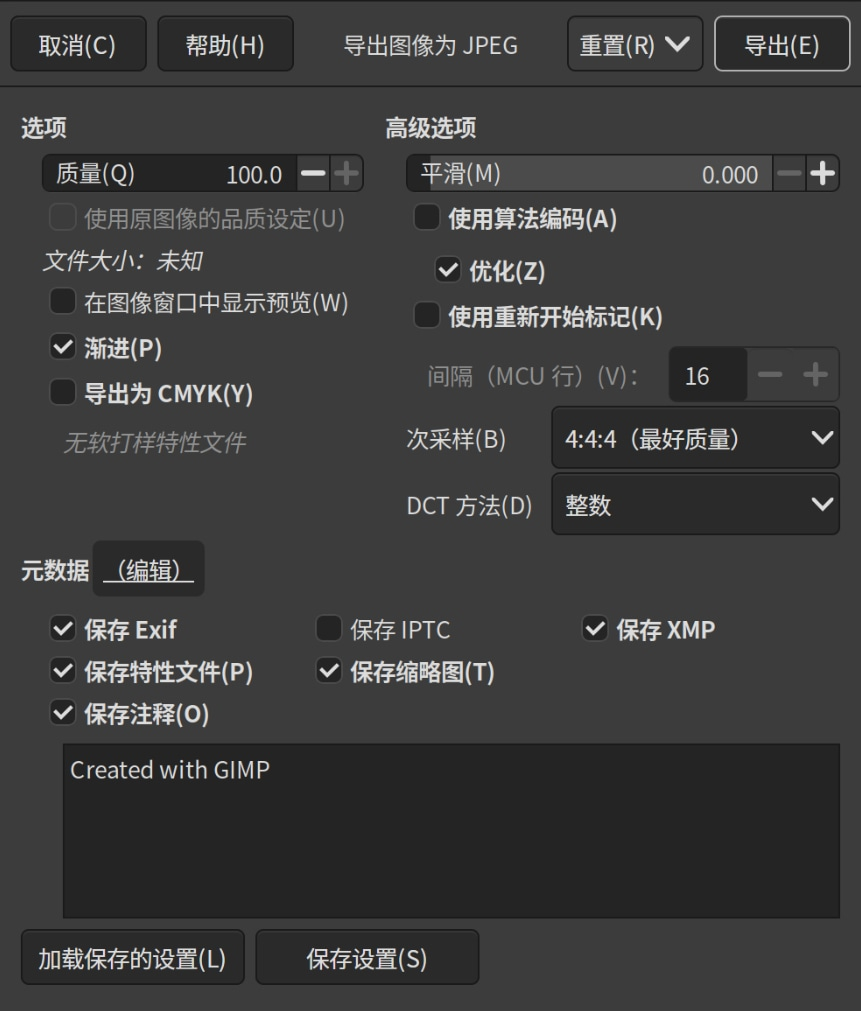
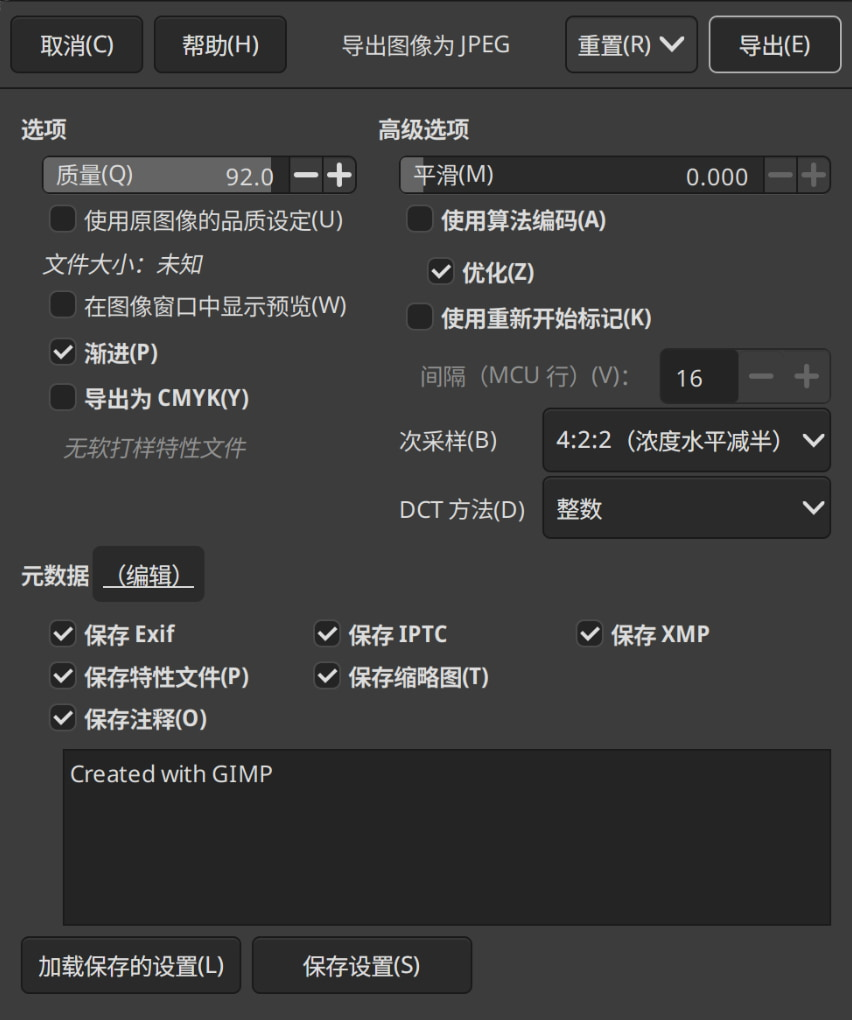
readme update

diff --git a/README.md b/README.md
@@ -411,24 +411,54 @@ scalar run all
 ## 维护小贴士
 
 1. ~~准备编译jpegoptim时记得链接mozjpeg,如果事后强行加载会无法启动~~ 实际上jpegoptim自己就有链接mozjpeg的选项
-2. 使用jpegoptim的`-m`参数去压缩图片而不是图片编辑(在我这是GIMP)内置的压缩,很显然的是jpegoptim的压缩效果会因为调用了mozjpeg而小一点或很多(具体的:`--strip-none -f -w 20 --all-progressive -m 95`,`-w`部分为每次同时进行的任务数,可以指定别的,我喜欢是20)
-3. 不清楚有没有效果,我使用的[upscayl-bin](https://github.com/upscayl/upscayl-ncnn)主体是自己替换掉更新的libwebp和ncnn还有`stb_image.h`等依赖的,因为上一次更新依赖是2年前,在这之后的ncnn版本~~都可以直接~~灌进去编译,所以为何不嘛
+
+2. ~~使用jpegoptim的`-m`参数去压缩图片而不是图片编辑(在我这是GIMP)内置的压缩,很显然的是jpegoptim的压缩效果会因为调用了mozjpeg而小一点或很多(具体的:`--strip-none -f -w 20 --all-progressive -m 95`,`-w`部分为每次同时进行的任务数,可以指定别的,我喜欢是20)~~
+
+3. 不清楚有没有效果,我使用的[upscayl-bin](https://github.com/upscayl/upscayl-ncnn)主体是自己替换掉更新的libwebp和ncnn还有`stb_image.h`等依赖的,因为上一次更新依赖是2年前,在这之后的ncnn版本~~都可以直接~~不可以直接灌进去编译~~但是现在不行了~~,所以为何不嘛
+
 4. 如果自己编译的组件,建议使用`-march=native`之类的优化flag给编译器,对于我的Clang 19来说是:`-Ofast -pipe -march=native -Wno-unused-command-line-argument -mllvm -polly -mllvm -polly-vectorizer=stripmine -flto=thin -mllvm -polly-parallel -mllvm -polly-omp-backend=LLVM -fuse-ld=/usr/bin/ld.lld-19 -mllvm -polly-run-inliner -mllvm -polly-run-dce -fno-semantic-interposition -fvisibility=hidden -mllvm -polly-invariant-load-hoisting -fopenmp=libomp`,什么是更多的,可以给NCNN传递额外的编译选项来稍微给小亮整个活:`-DNCNN_ENABLE_LTO=ON -DNCNN_SIMPLEVK=OFF`
+
 5. 如果很在乎的话,我用的升采样模型是`4xNomos8kSC`
+
+   > 该模型对于背景虚化的处理效果不好,毛发还行,如果模型认不出来是毛发的话效果就爆了
+
 6. 编译flag都是自己随便瞎写的憋骂了,WinDynamicDesktop分支的Python脚本很烂是真的
-7. [upscayl-bin](https://github.com/upscayl/upscayl-ncnn)放大出来的图会出现有透明边的情况(具体为竖屏图片的下边,横屏图片的右边,有4像素的偏移,不能稳定触发但是概率很高),后期自行裁切.
+
+7. ~~[upscayl-bin](https://github.com/upscayl/upscayl-ncnn)放大出来的图会出现有透明边的情况(具体为竖屏图片的下边,横屏图片的右边,有4~6像素的偏移,不能稳定触发但是概率很高),后期自行裁切.~~貌似是原本下载下来的图就有这种问题
+
 8. 添加了实验性的[sync_metadata.sh](./scripts/sync_metadata.sh),用于拷贝原图片的元数据,如果真的有摄影师看到这的话麻烦在IPTC里边写自己的大名.如果被压缩到1080p的情况下无解.
-9. <img src="./doc/gimp-cfg.jpg" width = "300" alt="GIMP config screenshot" align=center />
-10. 上面的GIMP截图应该加上保存IPTC
-11. 最近开始选用[JPEGDestroyer](https://openmodeldb.info/models/1x-JPEGDestroyer)模型来减少1080p下jpeg压缩的副作用对放大模型的影响,目前貌似效果良好.
+
+9. 对GIMP默认行为做了点小变动,包括:
+
+   >1. 使用下面的脚本强行加了个~~我不知道有没有用~~的OpenMP支持:
+   >
+   >```bash
+   >#!/usr/bin/env bash
+   >export OMP_NUM_THREADS=20
+   >export OPENBLAS_NUM_THREADS=20
+   >export OMP_THREAD_LIMIT=30
+   >export LD_PRELOAD="libiomp5.so"
+   >export KMP_AFFINITY=granularity=fine,compact,1,0
+   >export KMP_BLOCKTIME=0
+   >export MALLOC_CONF=oversize_threshold:1,background_thread:true,metadata_thp:auto,dirty_decay_ms:9000000000,muzzy_decay_ms:9000000000
+   >export LD_LIBRARY_PATH=/usr/local/lib
+   >/usr/bin/gimp
+   >
+   >```
+   >
+   >2. 自行编译了一份[mozjpeg](https://github.com/mozilla/mozjpeg)放到了`/usr/local/lib`内供GIMP加载
+   >3. <img src="./doc/gimp-cfg.jpg" width = "300" alt="GIMP config screenshot" align=center />
+   >4. 缩放图像时选用了`LoHalo(低光晕)`模式,据说能保留更多细节
+
+10. 最近开始选用[JPEGDestroyer](https://openmodeldb.info/models/1x-JPEGDestroyer)模型来减少1080p下jpeg压缩的副作用对放大模型的影响,目前貌似效果良好.
 
     `4xNomos8kSC`模型本身具有一定的抗jpeg压缩能力,但是不多,故外挂一次jpeg降噪模型.
 
     <!--真的是jpeg降噪而不是其他什么说法吗-->
 
-12. 一些(按纵向算的)3k的图片我依旧使用了AI放大并降回(按纵向算的)4k,可能涂抹感较为强烈.抱歉.
+11. 一些(按纵向算的)3k的图片我依旧使用了AI放大并降回(按纵向算的)4k,可能涂抹感较为强烈.抱歉.
 
-13. 实测在一些毛发不明显的图片AI仍旧倾向于抹就完了(eg.[1868.jpg](./横/1868.jpg)和[1880.jpg](./横/1880.jpg))
+12. 实测在一些毛发不明显的图片AI仍旧倾向于抹就完了(eg.[1868.jpg](./横/1868.jpg)和[1880.jpg](./横/1880.jpg))
 
 
 
